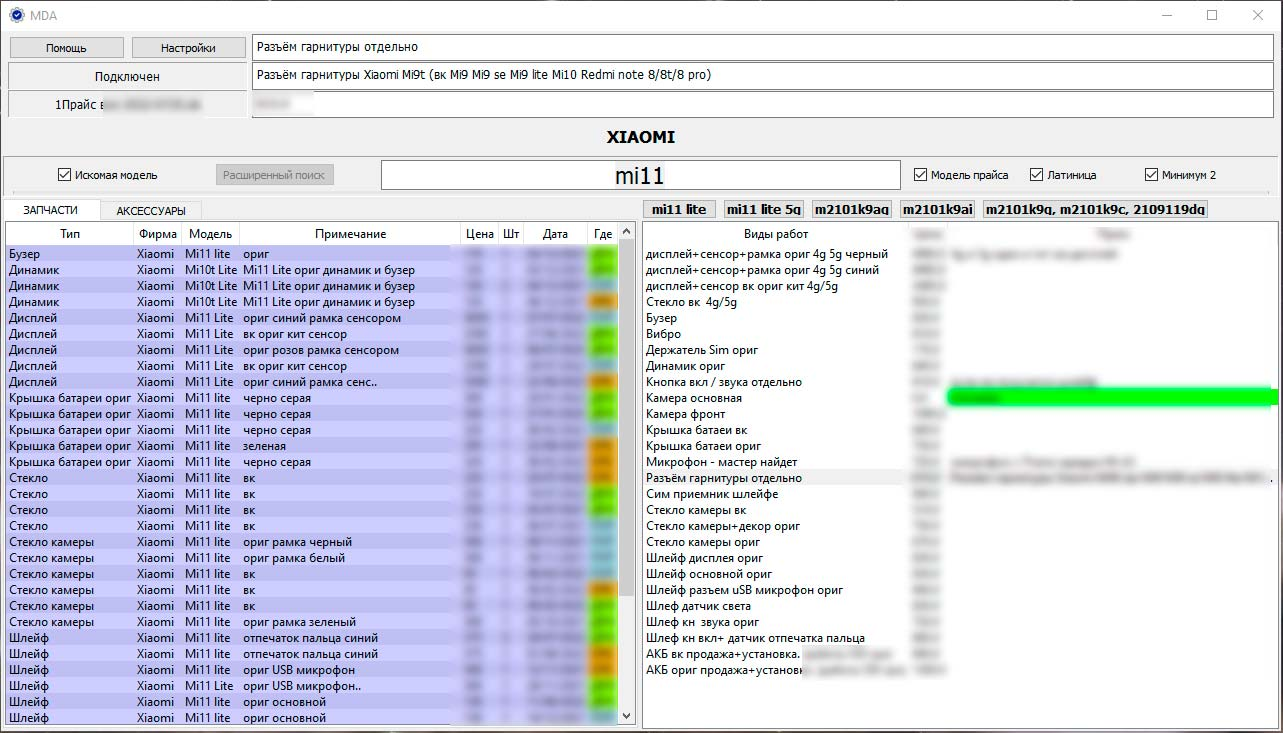
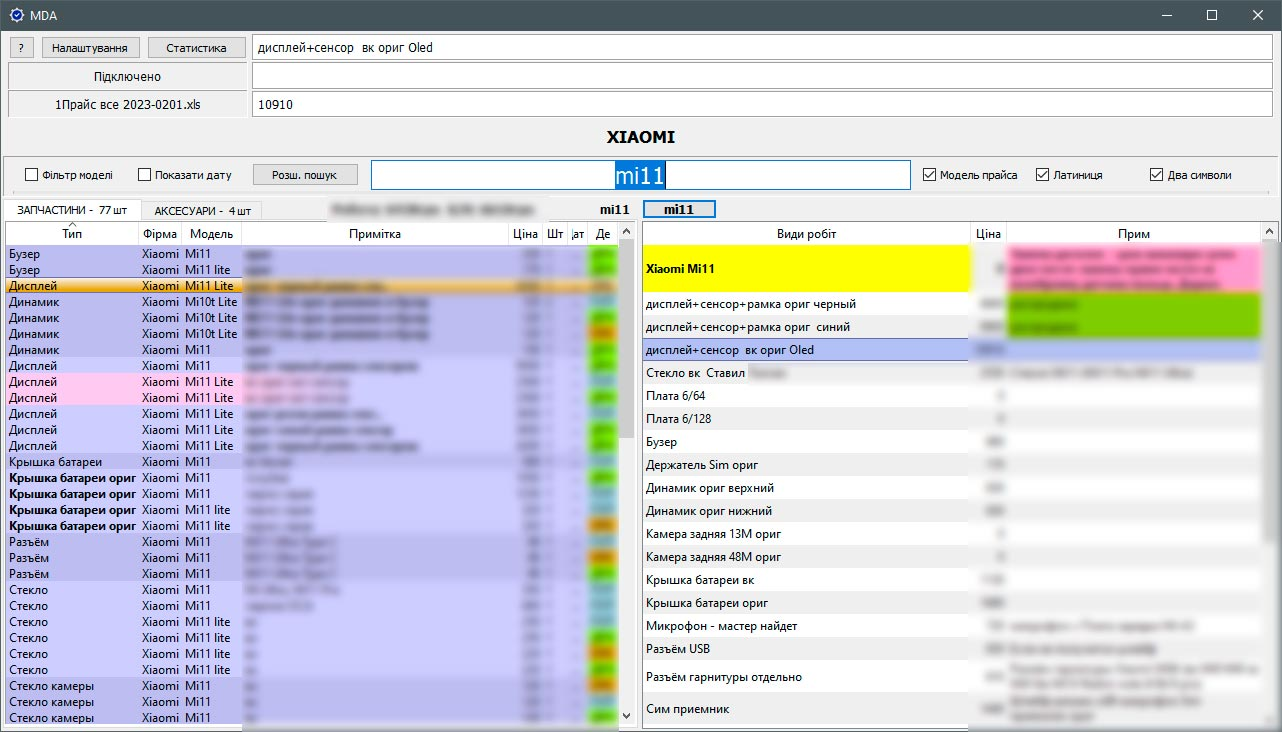
updated readme and screenshots

diff --git a/readme.md b/readme.md
@@ -1,19 +1,24 @@
 ### About:
-This application was made as Pet project for my current job.
+This application was made as Pet project that must simplify job to me and my colleagues.
 ### Purpose:
 The main purpose of the app is to reduce time for searching data - one of the most often action.
-### What it exactly does:
-It aggregates data from *.xml price document, search then parse web database, and shows combined result.
-It is mostly controllable with keyboard, that also speeds up working process.
-It converts search inputs in ascii, so you free of switching keyboard language.
-### Used packages:
-PyQt5 with QThread
-xlrd
-requests
-BeautifulSoup4
-configparser
-
+### Application features:
++ Aggregates data from *.xml price document, checks parts availability in parsed web database, and shows combined result.  
++ Mostly controllable with keyboard, that also speeds up working process.  
++ Converts search inputs in ascii, so you free of switching keyboard language.  
++ Collects statistic data from client apps and shows combined graphs.
++ Have a language choice for UI.
+### Used technologies:
+![](https://img.shields.io/badge/python-v3.7-blue)
+![](https://img.shields.io/badge/PyQT5-QThread,_QChart-blueviolet)
+![](https://img.shields.io/badge/AWS-Lambda,_DynamoDB,_IAM-orange)  
+![](https://img.shields.io/static/v1?label=&message=xlrd&color=brightgreen)
+![](https://img.shields.io/static/v1?label=&message=requests&color=green)
+![](https://img.shields.io/static/v1?label=&message=BeautifulSoup4&color=yellowgreen)
+![](https://img.shields.io/static/v1?label=&message=configparser&color=yellow)
 
 ### Screenshots:
 ![](screen_00.jpg)
 ![](screen_01.jpg)
+![](screen_02.jpg)
+![](screen_03.jpg)
